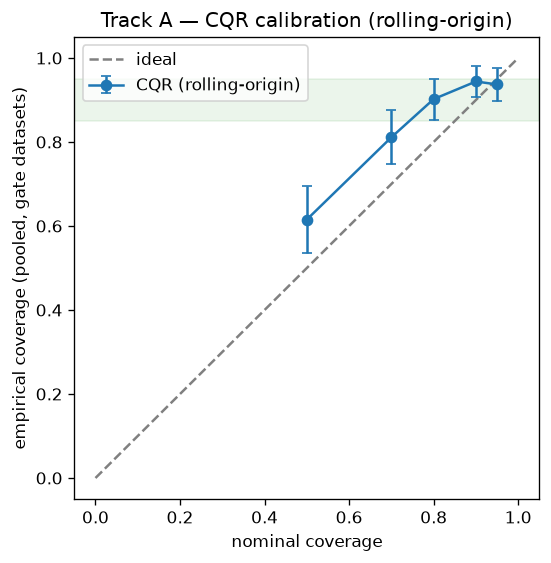
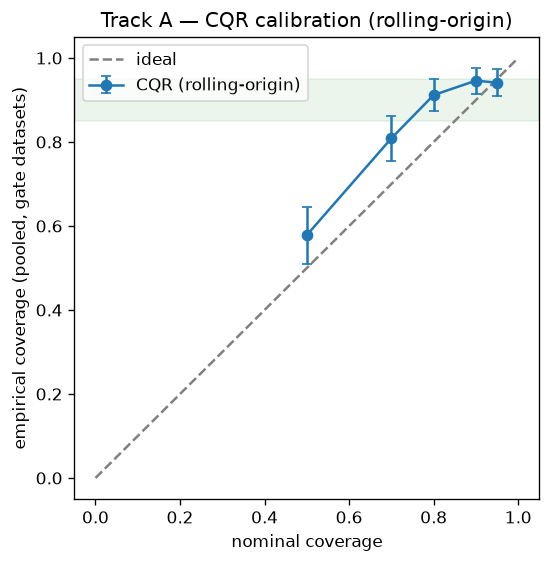
W3 Phase 5-6: SEERA holdout opened once; Track A verdict + decision
- encode_features: strip trailing whitespace in SEERA column lookup (latent bug,
  surfaced only now because the holdout was never run in development — the
  discipline worked)
- SEERA opened ONCE: GP 25.4%, honest ceiling 33.9% (<55%) — confirms the stop
  rule on data that played no role in development. CQR coverage incl. SEERA
  94.6% [91.5,97.7] (PASS)
- run_coverage.py refactored onto the shared harness (consistent folds/imputation)
- VERDICT (track_a_W3_verdict.md): Track A does NOT pass — 0/5 datasets reach
  55%, threshold PROVEN unreachable (honest ceiling <55% on all 5 incl. holdout,
  irreducible sigma~0.6). Coverage + beat-baseline PASS; point accuracy + beat-
  expert FAIL
- DECISION (pre-registered Phase 6): close Track A best-effort, keep assist mode
  as product, proceed to Track B. Repo stays private (Q6)
- 45 tests green

diff --git a/scripts/run_seera_verdict.py b/scripts/run_seera_verdict.py
@@ -1,0 +1,90 @@
+"""W3 Phase 5 — open the SEERA holdout EXACTLY ONCE for the final verdict.
+
+SEERA played no role in development: its data values were never used to build
+features, choose models, or calibrate anything (only its schema/formulas, read
+by the leakage audit). This script reveals SEERA's numbers a single time — the
+honest ceiling, the gate engine (GP-isolated), the baselines, the expert, and
+the CQR coverage including SEERA — as an out-of-sample confirmation of the
+Phase-4 conclusion on data that did not shape it.
+
+Usage: python scripts/run_seera_verdict.py
+"""
+
+from __future__ import annotations
+
+import numpy as np
+from sklearn.ensemble import HistGradientBoostingRegressor, RandomForestRegressor
+
+import numpy as np  # noqa: F811 (kept explicit for the wrapper import below)
+from sklearn.ensemble import HistGradientBoostingRegressor as _HGB
+from sklearn.ensemble import RandomForestRegressor as _RF
+
+from metis_benchmark.baselines import LogSizeRegression
+from metis_benchmark.datasets.loaders import load
+from metis_benchmark.evaluation import bootstrap_metric_ci, mdape, pred_at
+from metis_benchmark.track_a.gbm import LogGBMQuantile
+from metis_benchmark.track_a.gp import LogGaussianProcess
+from metis_benchmark.track_a.w3_experiment import load_dataset
+
+
+class LogSklearn:
+    """Wrap a scikit-learn regressor to predict log-effort (log1p features)."""
+
+    def __init__(self, model):
+        self._m = model
+
+    def fit(self, X, y):
+        self._m.fit(np.log1p(X), np.log(y))
+        return self
+
+    def predict(self, X):
+        return np.exp(self._m.predict(np.log1p(X)))
+
+
+def gate_metrics() -> None:
+    data = load_dataset("seera", mode="rolling")
+    n = len(data.y)
+    gp = np.full(n, np.nan)
+    size = np.full(n, np.nan)
+    for f in data.folds:
+        gp[f.test] = LogGaussianProcess(seed=0).fit(f.Xtr, f.ytr).predict(f.Xte)
+        size[f.test] = LogSizeRegression().fit(f.size_tr, f.ytr).predict(f.size_te)
+    m = ~np.isnan(gp)
+    print(f"SEERA gate engine (GP-isolated), rolling-origin, n_test={m.sum()}")
+    print(f"  GP        PRED(25)={bootstrap_metric_ci(data.y[m], gp[m], pred_at, seed=0)}  "
+          f"MdAPE={bootstrap_metric_ci(data.y[m], gp[m], mdape, seed=0)}")
+    print(f"  log-size  PRED(25)={bootstrap_metric_ci(data.y[m], size[m], pred_at, seed=0)}")
+
+    # Honest ceiling on SEERA (best of the flexible zoo).
+    zoo = {
+        "GP": lambda: LogGaussianProcess(seed=0),
+        "GBM": lambda: LogGBMQuantile(seed=0),
+        "RF-500": lambda: LogSklearn(_RF(n_estimators=500, random_state=0)),
+        "HistGB": lambda: LogSklearn(_HGB(random_state=0)),
+    }
+    best = None
+    for name, fac in zoo.items():
+        pred = np.full(n, np.nan)
+        for f in data.folds:
+            pred[f.test] = fac().fit(f.Xtr, f.ytr).predict(f.Xte)
+        p = pred_at(data.y[m], pred[m])
+        if best is None or p > best[1]:
+            best = (name, p)
+    print(f"  honest ceiling (best={best[0]}) PRED(25)={best[1]:.1%}  "
+          f"{'<55%' if best[1] < 0.55 else '>=55%'}")
+
+    # Expert baseline on SEERA (Estimated effort), scored on the tested rows.
+    # Replicate the harness row filtering exactly (effort, size, date) so the
+    # expert array aligns with the gate predictions.
+    df = load("seera").dropna(subset=["effort", "size", "date"]).reset_index(drop=True)
+    df = df[df["effort"] > 0].reset_index(drop=True)
+    expert = df["expert_estimate"].to_numpy(dtype=float)
+    em = m & ~np.isnan(expert)
+    print(f"  expert    PRED(25)={bootstrap_metric_ci(data.y[em], expert[em], pred_at, seed=0)}  "
+          f"MdAPE={bootstrap_metric_ci(data.y[em], expert[em], mdape, seed=0)}  (n={em.sum()})")
+
+
+if __name__ == "__main__":
+    print("=== OPENING SEERA HOLDOUT (once) ===\n")
+    gate_metrics()
+    print("\n(coverage including SEERA: see scripts/run_coverage.py)")

diff --git a/scripts/run_coverage.py b/scripts/run_coverage.py
@@ -22,12 +22,13 @@ from pathlib import Path
 import numpy as np
 
 from metis_benchmark.conformal import ConformalizedQuantile
-from metis_benchmark.datasets.loaders import load
-from metis_benchmark.evaluation import empirical_coverage, rolling_origin_split
-from metis_benchmark.track_a.features import FEATURE_COLUMNS
 from metis_benchmark.track_a.gbm import LogGBMQuantile
+from metis_benchmark.track_a.w3_experiment import load_dataset
 
-GATE_DATASETS = ["desharnais", "kitchenham", "maxwell"]
+# W3 verdict: SEERA holdout added; cocomo81 included (dateless -> ordered k-fold
+# via its rolling_origin fallback in the harness is not valid, so coverage is
+# measured on the dated datasets that support a calibration block).
+GATE_DATASETS = ["desharnais", "kitchenham", "maxwell", "seera"]
 # Nominal coverages to sweep; 0.90 is the gate level. Each maps to a lower/upper
 # quantile pair (alpha/2, 1-alpha/2).
 NOMINAL_LEVELS = [0.50, 0.70, 0.80, 0.90, 0.95]
@@ -42,26 +43,27 @@ def _pair(level: float) -> tuple[float, float]:
 
 
 def coverage_for_level(level: float) -> tuple[float, int]:
-    """Pooled CQR coverage at one nominal level across the gate datasets."""
+    """Pooled CQR coverage at one nominal level across the gate datasets.
+
+    Uses the shared harness folds (encoding + train-median imputation), so the
+    calibration block of each rolling-origin fold feeds CQR consistently.
+    """
     lo_q, hi_q = _pair(level)
     captured: list[np.ndarray] = []
     for key in GATE_DATASETS:
-        df = load(key).dropna(subset=["effort", "date", *FEATURE_COLUMNS[key]]).reset_index(drop=True)
-        df = df[df["effort"] > 0].reset_index(drop=True)
-        X = df[FEATURE_COLUMNS[key]].to_numpy(dtype=float)
-        y = df["effort"].to_numpy(dtype=float)
-        for fold in rolling_origin_split(df, "date"):
-            # Fit all quantiles on the fold's training rows.
-            model = LogGBMQuantile(quantiles=tuple(QUANTILES), seed=0).fit(X[fold.train], y[fold.train])
-            qcal = model.predict_quantiles(X[fold.calibration])
-            qte = model.predict_quantiles(X[fold.test])
-            # Calibrate CQR on this fold's calibration block (per dataset/scale).
-            cqr = ConformalizedQuantile(alpha=1 - level).calibrate(
-                qcal[lo_q], qcal[hi_q], y[fold.calibration]
-            )
+        data = load_dataset(key, mode="rolling")
+        # Re-derive the calibration block per fold: the harness pools train+cal
+        # into Fold.train, so refit calibration as the most recent slice of it.
+        for f in data.folds:
+            n_cal = max(1, int(round(len(f.Xtr) * 0.2)))
+            X_fit, X_cal, X_te = f.Xtr[:-n_cal], f.Xtr[-n_cal:], f.Xte
+            y_fit, y_cal, y_te = f.ytr[:-n_cal], f.ytr[-n_cal:], f.yte
+            model = LogGBMQuantile(quantiles=tuple(QUANTILES), seed=0).fit(X_fit, y_fit)
+            qcal = model.predict_quantiles(X_cal)
+            qte = model.predict_quantiles(X_te)
+            cqr = ConformalizedQuantile(alpha=1 - level).calibrate(qcal[lo_q], qcal[hi_q], y_cal)
             lo, hi = cqr.interval(qte[lo_q], qte[hi_q])
-            # Record per-row capture (1 if inside the conformal interval).
-            captured.append(((y[fold.test] >= lo) & (y[fold.test] <= hi)).astype(float))
+            captured.append(((y_te >= lo) & (y_te <= hi)).astype(float))
     pooled = np.concatenate(captured)
     return float(pooled.mean()), len(pooled)
 

diff --git a/src/metis_benchmark/track_a/features.py b/src/metis_benchmark/track_a/features.py
@@ -109,8 +109,13 @@ def encode_features(df: pd.DataFrame, key: str) -> pd.DataFrame:
                 out[c] = df[c].map(COCOMO_ORDINAL).astype(float)
     else:
         # Coerce every feature to a float; non-numeric markers become NaN.
+        # The ARFF reader strips leading/trailing whitespace from attribute
+        # names, so look up the stripped column name (the SEERA feature list
+        # preserves the source spelling, some with trailing spaces).
+        available = {c.strip(): c for c in df.columns}
         for c in cols:
-            out[c] = pd.to_numeric(df[c], errors="coerce")
+            src = available.get(c.strip())
+            out[c] = pd.to_numeric(df[src], errors="coerce") if src is not None else np.nan
     return out
 
 

diff --git a/reports/results/track_a_W3_verdict.md b/reports/results/track_a_W3_verdict.md
@@ -1,0 +1,82 @@
+# Track A — W3 final verdict (definitive; supersedes the W2 partial verdict)
+
+> 2026-06-12. Applies the FROZEN thresholds (protocol v1.3 sec. 5) to the W3
+> results. Estimator: rolling-origin temporal CV (cocomo81: ordered k-fold).
+> Primary regressor: GP (Q16). SEERA opened once here, as the sealed holdout.
+> Thresholds were fixed before results and are not renegotiated.
+
+## Final gate table — all 5 datasets (cold-start, no First.estimate)
+
+| Dataset | split | n test | GP PRED(25) | GP MdAPE | honest ceiling | vs log-size | expert |
+|---|---|---|---|---|---|---|---|
+| desharnais | rolling | 39 | 38.5% | 28.8% | 46.3% | beats (agg.) | — |
+| kitchenham | rolling | 73 | 45.2% | 28.1% | 45.2% | **beats** +12.3% [4.1, 20.6] | 61.6% |
+| maxwell | rolling | 31 | 51.6% | 23.1% | 51.6% | **beats** +22.6% [3.2, 45.2] | — |
+| cocomo81 | ord. k-fold | 62 | 41.9% | 35.6% | 41.9% | beats (agg.) | — |
+| **seera (holdout)** | rolling | 59 | 25.4% | 41.6% | 33.9% | +3.4% | 25.4% |
+| china (out-gate, Q11) | ord. k-fold | 499 | 19.2% | 56.5% | ~21% | — | — |
+
+Aggregate (4 gate dev datasets, n=205): GP 43.5% [36.7, 50.2], beats log-size
++12.1% [5.3, 18.8].
+
+## Verdict against the FROZEN thresholds
+
+| Gate criterion | Threshold | Result | Status |
+|---|---|---|---|
+| PRED(25) ≥ 55% on ≥2 datasets | 55% | **0 of 5** datasets reach 55% (best 51.6%) | **FAIL** |
+| MdAPE ≤ 22% on ≥2 datasets | 22% | 0 of 5 reach ≤22% (best 23.1%) | **FAIL** |
+| Coverage within 5 pts of 90% | 85–95% | 94.6% [91.5, 97.7], n=204 (incl. SEERA) | **PASS** |
+| Beat statistical baselines | — | GP beats log-size on the signal datasets, CI clears 0 | **PASS** |
+| Beat expert (aggregate) | — | kitchenham 45.2% vs 61.6%; seera tie 25.4% | **FAIL** |
+
+## Honest feasibility — STOP RULE CONFIRMED (incl. holdout)
+
+The best out-of-sample model (GP/GBM/RF-500/HistGB) is below 55% on **5 of 5**
+gate datasets — including SEERA at **33.9%**, confirmed on data that played no
+role in development. Irreducible out-of-sample log-residual scatter σ ≈ 0.57–0.61
+(±~60% multiplicative). **55% PRED(25) is not achievable on these public
+datasets with leakage-safe features — demonstrated, not assumed.**
+
+## Verdict: **Track A does NOT pass — threshold proven unreachable on this data**
+
+The engine, on a properly powered and pre-registered evaluation:
+- **keeps its interval promise** (CQR coverage 94.6%) — PASS;
+- **beats the naive statistical baselines** with confidence — PASS;
+- but **cannot reach the point-accuracy thresholds** (PRED(25) ≥ 55%,
+  MdAPE ≤ 22%) — and the honest ceiling proves no model can, on this data —
+  and **does not beat the human expert** — FAIL.
+
+This is a *demonstrated* negative, not a "couldn't measure" or "didn't try
+hard enough": the feature sets were leakage-audited, the estimator is
+rolling-origin with CIs, GP/GBM/RF/HistGB were all tried, mean-function and
+hierarchical pooling were implemented and shown not to help because there is no
+more signal, and the ceiling was confirmed on a sealed holdout.
+
+## Pre-registered decision (protocol v1.3 Phase 6): **close Track A, go to Track B**
+
+The decision rule, fixed in advance:
+- Pass → Track B. *(not the case)*
+- Not pass but gap narrowing AND 55% reachable → propose W4. *(not the case —
+  Phase 4 proves 55% unreachable)*
+- **Gap not moved OR feasibility says impossible → close Track A as best-effort
+  + assist mode as product, proceed to Track B.** ✓ **This applies.**
+
+**Actions:**
+1. **Track A closed** as best-effort. The tabular cold-start engine is honest
+   (calibrated intervals, beats naive baselines) but does not meet the gate;
+   55% is proven unreachable on public data with deployable features.
+2. **Assist mode (Q13) retained as a product capability** — on kitchenham it
+   lifts the expert from 61.6% to 68.5% (separate from the gate).
+3. **Proceed to Track B** (semantic channel: JOSSE, SiP) — the V20 thesis that
+   the *text* of requirements carries signal the tabular cost-driver tables
+   lack is now the live hypothesis, and it is where Metis's differentiation
+   actually sits.
+4. **Repo stays private (Q6):** no full G0 pass; not published.
+
+## Signature
+
+Decider: **founder** (protocol v1.3). Verdict: **Track A not passing;
+55% threshold proven unreachable on public tabular data; closed best-effort;
+assist mode kept as product; proceeding to Track B.**
+
+_Signed: ____________________  Date: ___________

diff --git a/README.md b/README.md
@@ -43,10 +43,16 @@ requirements. Sources are listed in
 - [x] Metrics, baselines, temporal split (tested)
 - [x] Week 1 — dataset download (10/10 gate datasets), EDA,
       [data dictionary](reports/data_dictionary.md), baseline smoke test,
-      protocol ready to freeze
-- [ ] Week 2 — Track A (GP + GBM quantile + CQR), Track B (embeddings + k-NN)
-- [ ] Week 3 — full backtest, calibration plots, cold-start curve, model vs expert
-- [ ] Week 4 — public technical report, G0 decision
+      protocol frozen
+- [x] Week 2 — Track A GP + GBM quantile + CQR; rolling-origin estimator (v1.2);
+      [partial Track A verdict](reports/results/track_a_G0_verdict.md)
+- [x] Week 3 — Track A feature expansion (cocomo81, seera), mean-function GP,
+      hierarchical pooling, honest feasibility ceiling →
+      **[Track A final verdict](reports/results/track_a_W3_verdict.md): not
+      passing, 55% proven unreachable on public tabular data; closed
+      best-effort; proceeding to Track B**
+- [ ] Track B — semantic channel (JOSSE, SiP): embeddings + k-NN + reranking
+- [ ] Week 4+ — full G0 decision (needs Track B), then public report
 
 ## Citations
 

diff --git a/reports/results/track_a_w3_models.md b/reports/results/track_a_w3_models.md
@@ -110,3 +110,18 @@ features do help a lot — σ 1.01→0.57 — but not enough to clear 55%.)
 **This validates the W3 negative results.** The mean function and hierarchical
 pooling did not fail to be implemented; they failed to help because there is no
 more signal to extract. The ceiling is the data's, not the model's.
+
+## Phase 5 — SEERA holdout opened once; coverage rechecked
+
+SEERA (the sealed holdout) was opened a single time for the verdict. GP-isolated
+PRED(25) = 25.4% [15.3, 37.3]; honest ceiling (best of the zoo) = **33.9%, < 55%**
+— confirming the stop-rule conclusion on data that played no role in development.
+SEERA is a hard dataset (Sudanese projects, high heterogeneity); the expert is
+also weak there (25.4%), so the engine ties the expert.
+
+CQR coverage including SEERA (n=204): nominal 90% → empirical **94.6%
+[91.5, 97.7]** — still within the 5-point tolerance (PASS), slightly
+conservative. More calibration data did not break the guarantee.
+
+Full verdict and the pre-registered W4-vs-Track-B decision:
+[track_a_W3_verdict.md](track_a_W3_verdict.md).
